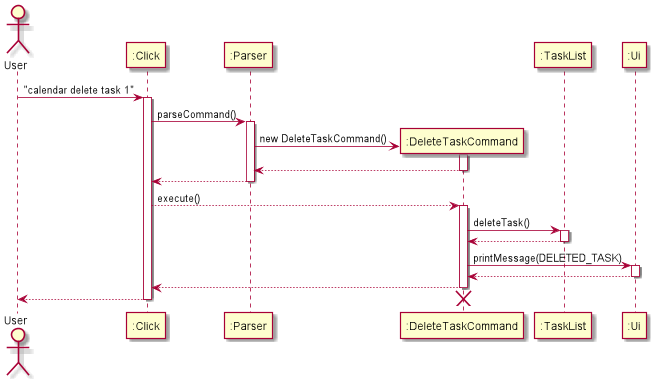
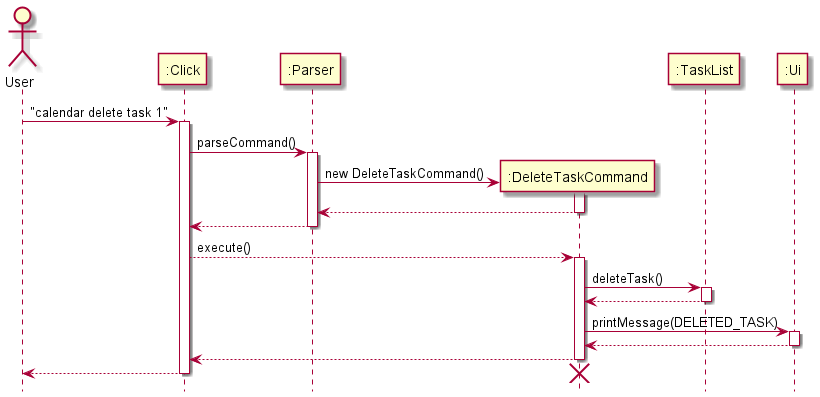
Remove footbox from delete task command

diff --git a/docs/DeveloperGuide.md b/docs/DeveloperGuide.md
@@ -364,7 +364,7 @@ Given below is an example of how the display calendar mechanism behaves at each 
 The below sequence diagram shows the execution process of the calendar display feature.
 ![](diagrams/calendar/CalendarDisplaySequence.png)
 
-**Design Considerations**
+**Calendar Design Considerations**
 
 The following design considerations were kept in mind while implementing the calendar display feature,
 - Aspect: Calendar visual display
